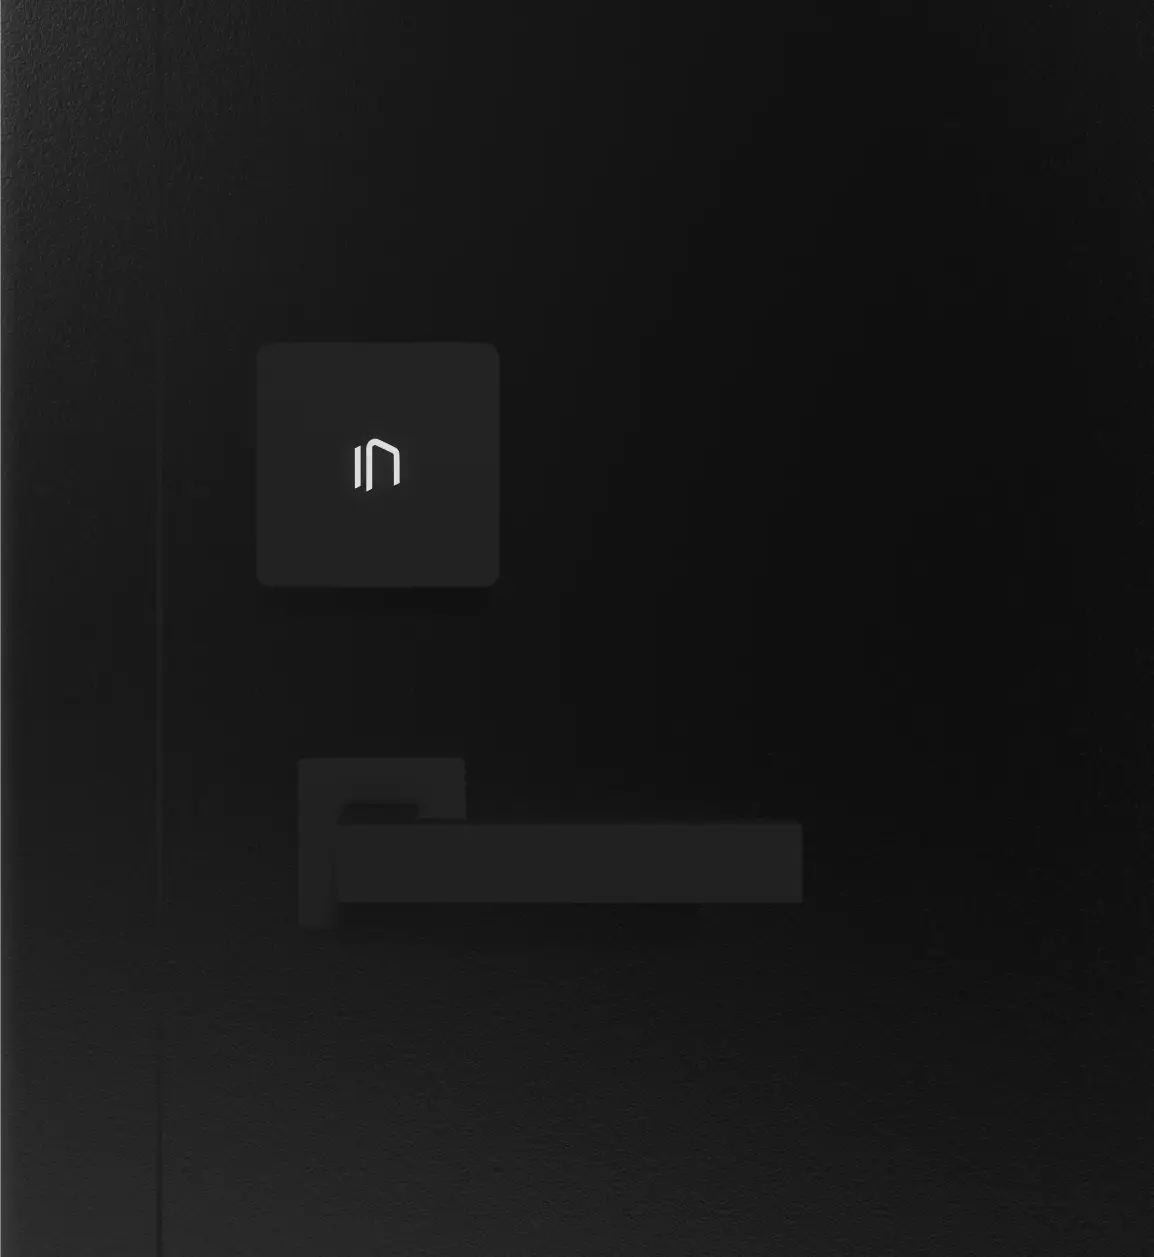
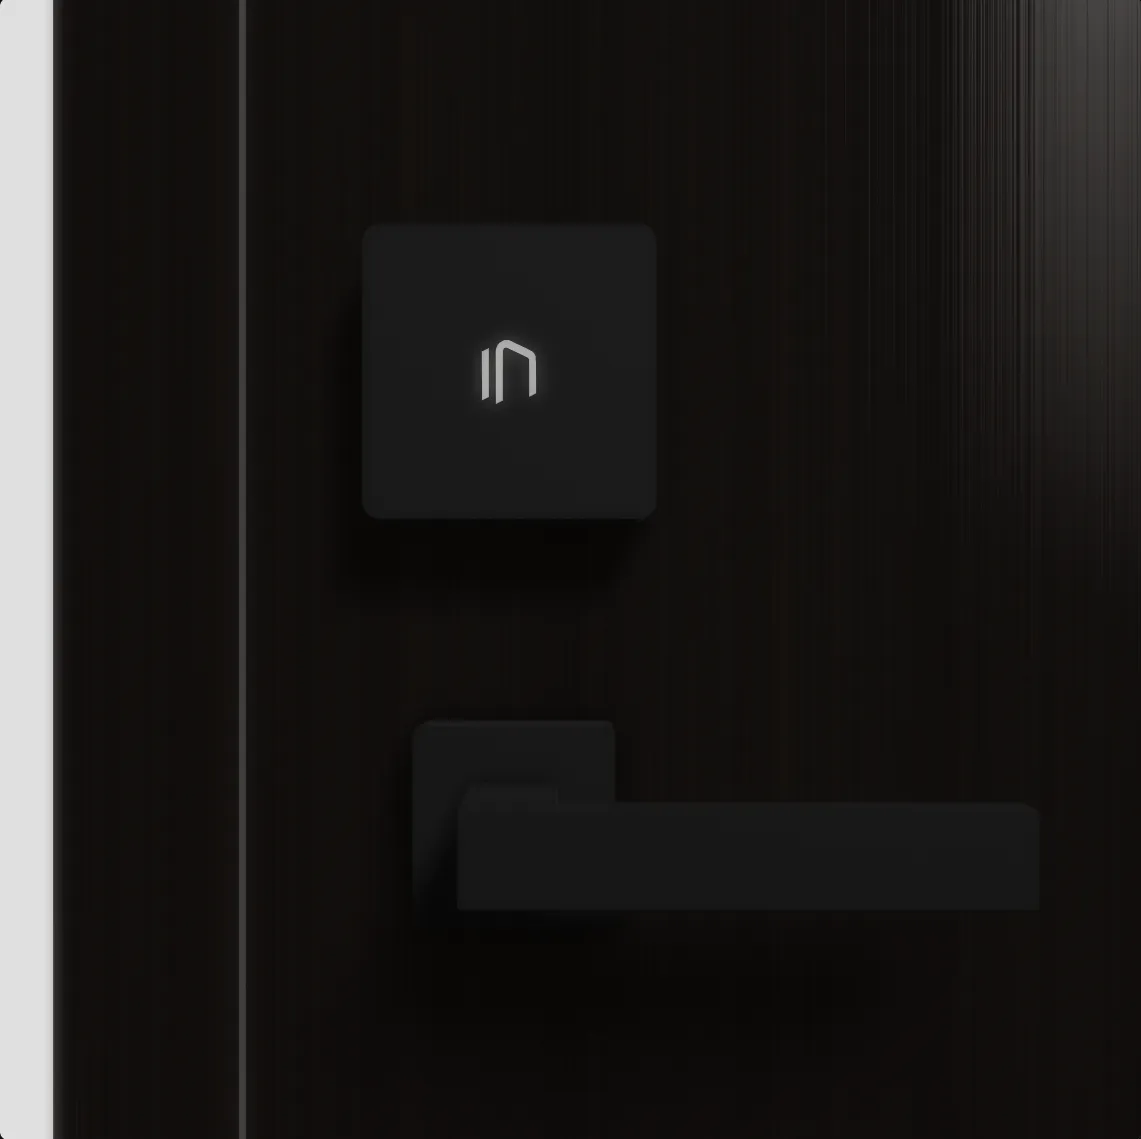
feat(views): :bento: add MediumZoom & update product images

diff --git a/src/views/HomeView.vue b/src/views/HomeView.vue
@@ -1,6 +1,7 @@
 <script setup>
 import axios from 'axios'
 import { gsap } from 'gsap'
+import mediumZoom from 'medium-zoom'
 import { ScrollTrigger } from 'gsap/ScrollTrigger'
 import { TextPlugin } from 'gsap/TextPlugin'
 import { nextTick, onMounted, onUnmounted, ref, watch } from 'vue'
@@ -34,6 +35,8 @@ gsap.registerPlugin(TextPlugin)
 const ctx = gsap.context(() => {})
 
 onMounted(() => {
+  mediumZoom('[data-zoomable]')
+
   ctx.add(() => {
     initializeAnimations()
   })
@@ -126,6 +129,10 @@ onUnmounted(() => {
 
 const scrollToCTA = () => {
   document.querySelector('#pre-order').scrollIntoView({ behavior: 'smooth' })
+}
+
+function getImageUrl(name) {
+  return new URL(`/src/assets/images/${name}`, import.meta.url).href
 }
 
 const advantages = [
@@ -378,24 +385,30 @@ const faqItems = [
               <img
                 class="pricing__image"
                 src="@/assets/images/product-1.webp"
+                :data-zoom-src="getImageUrl('product-1-detailed.webp')"
                 alt="Умный замок NFCKEY"
                 loading="lazy"
+                data-zoomable
               />
             </CarouselItem>
             <CarouselItem>
               <img
                 class="pricing__image"
                 src="@/assets/images/product-2.webp"
+                :data-zoom-src="getImageUrl('product-2-detailed.webp')"
                 alt="Умный замок NFCKEY"
                 loading="lazy"
+                data-zoomable
               />
             </CarouselItem>
             <CarouselItem>
               <img
                 class="pricing__image"
                 src="@/assets/images/product-3.webp"
+                :data-zoom-src="getImageUrl('product-3-detailed.webp')"
                 alt="Умный замок NFCKEY"
                 loading="lazy"
+                data-zoomable
               />
             </CarouselItem>
           </CarouselContent>

diff --git a/src/assets/main.css b/src/assets/main.css
@@ -354,7 +354,7 @@
     }
 
     &__image {
-      @apply cursor-pointer rounded-xl border-2;
+      @apply cursor-pointer rounded-xl;
     }
 
     &__title {
